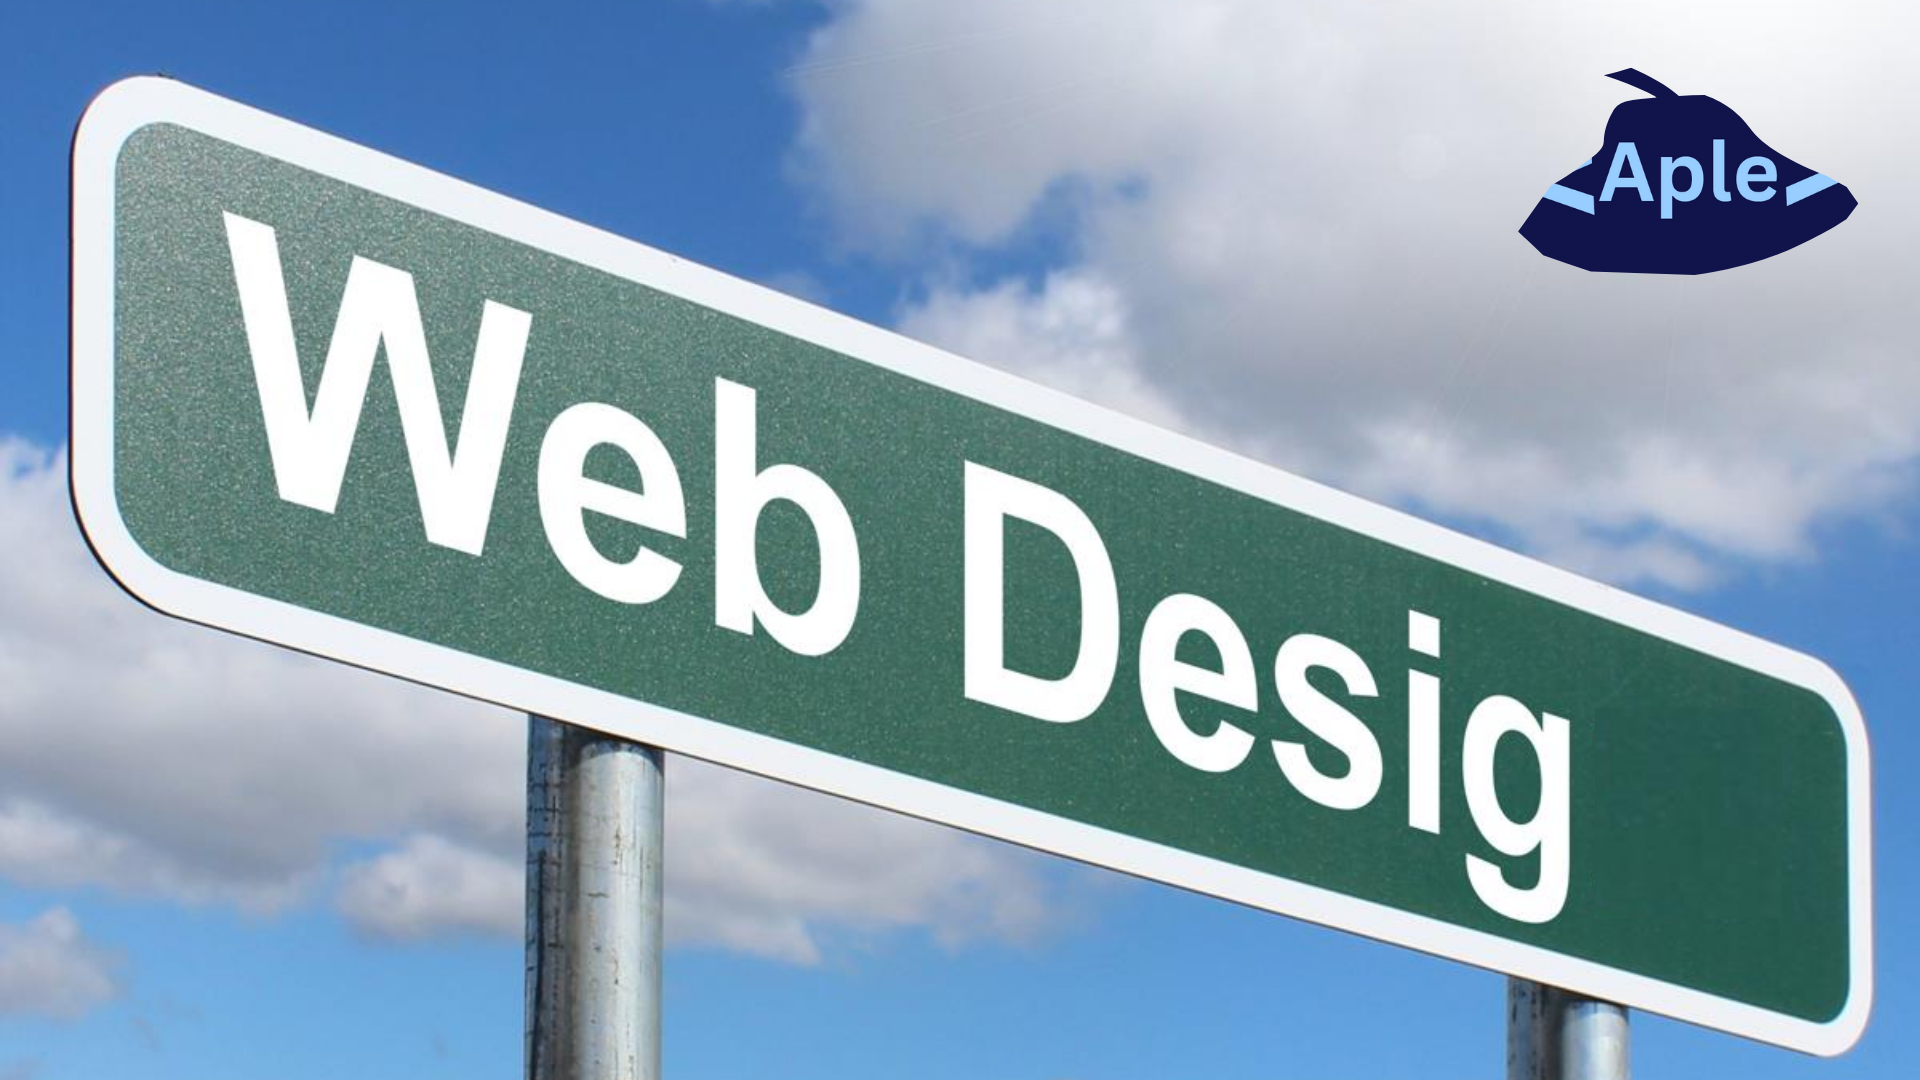
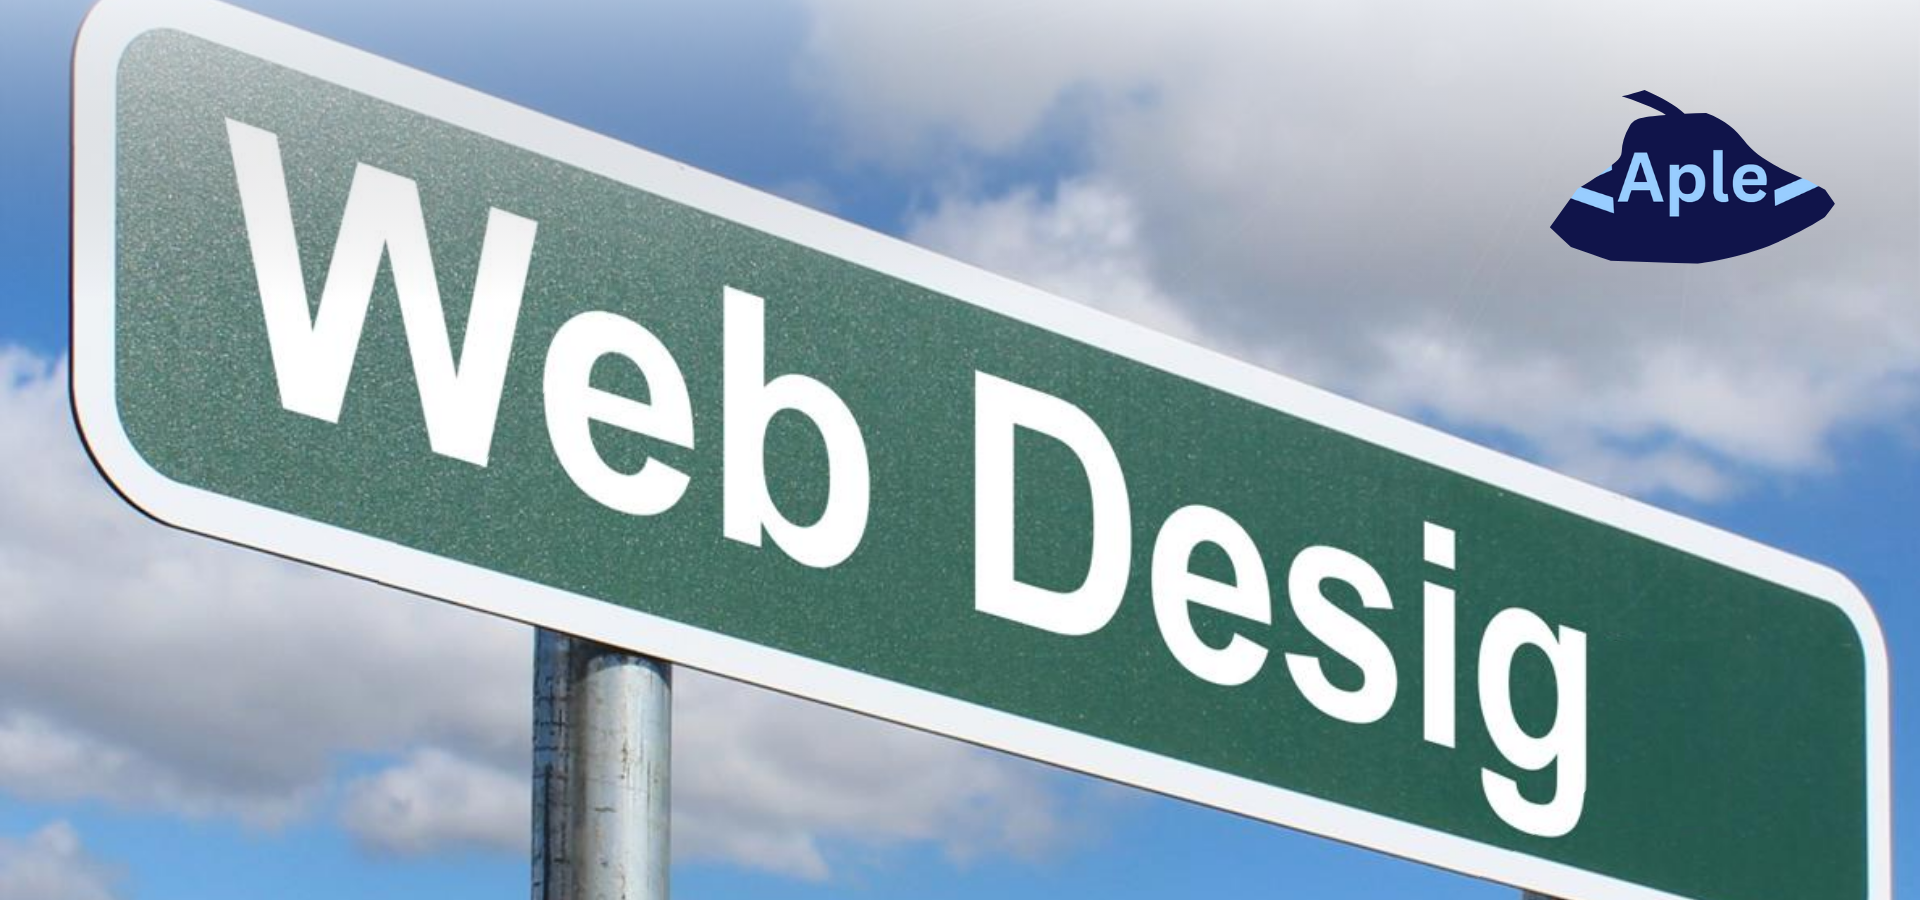
sliders

diff --git a/static/css/style.css b/static/css/style.css
@@ -8,5 +8,5 @@
   color: #ffff;
 }
 .carousel-inner img {
-  aspect-ratio: 16/9;
+  aspect-ratio: 1920/900;
 }
